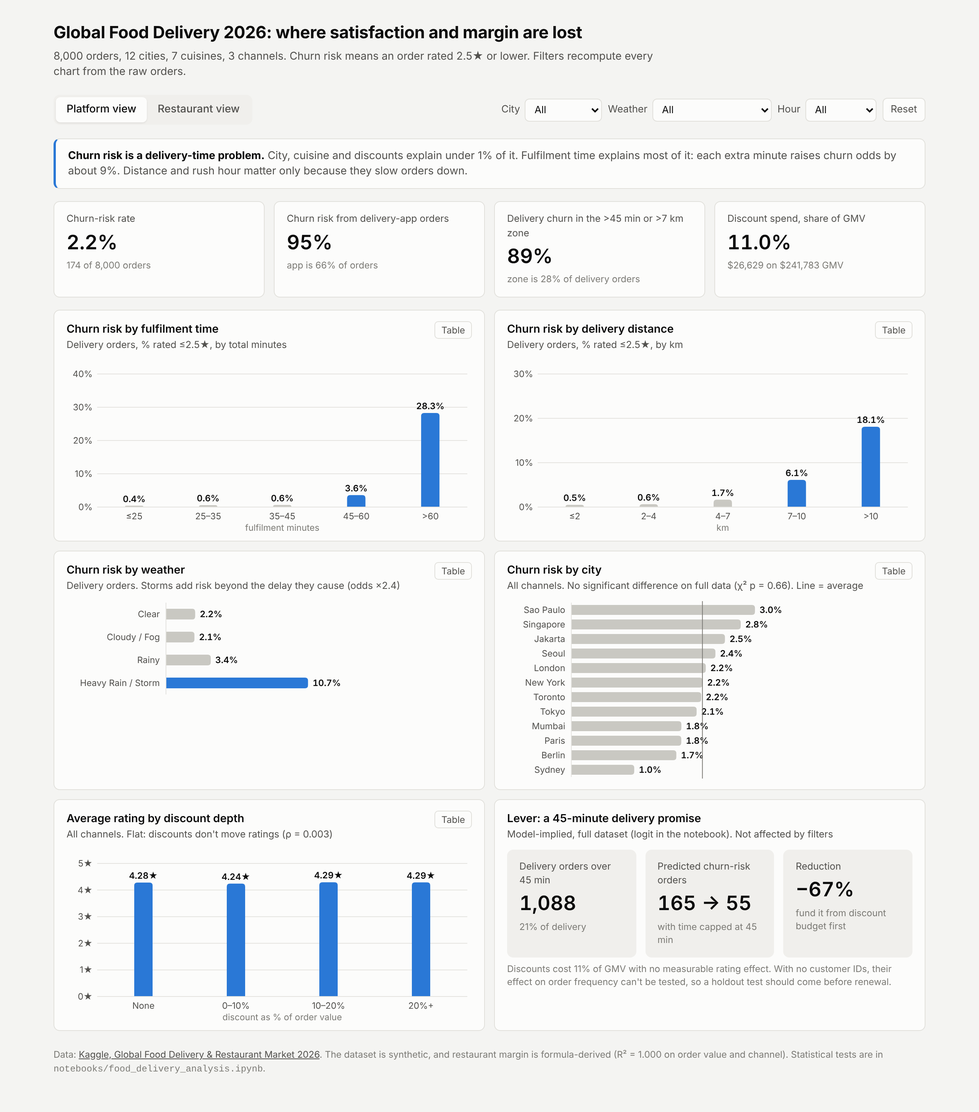
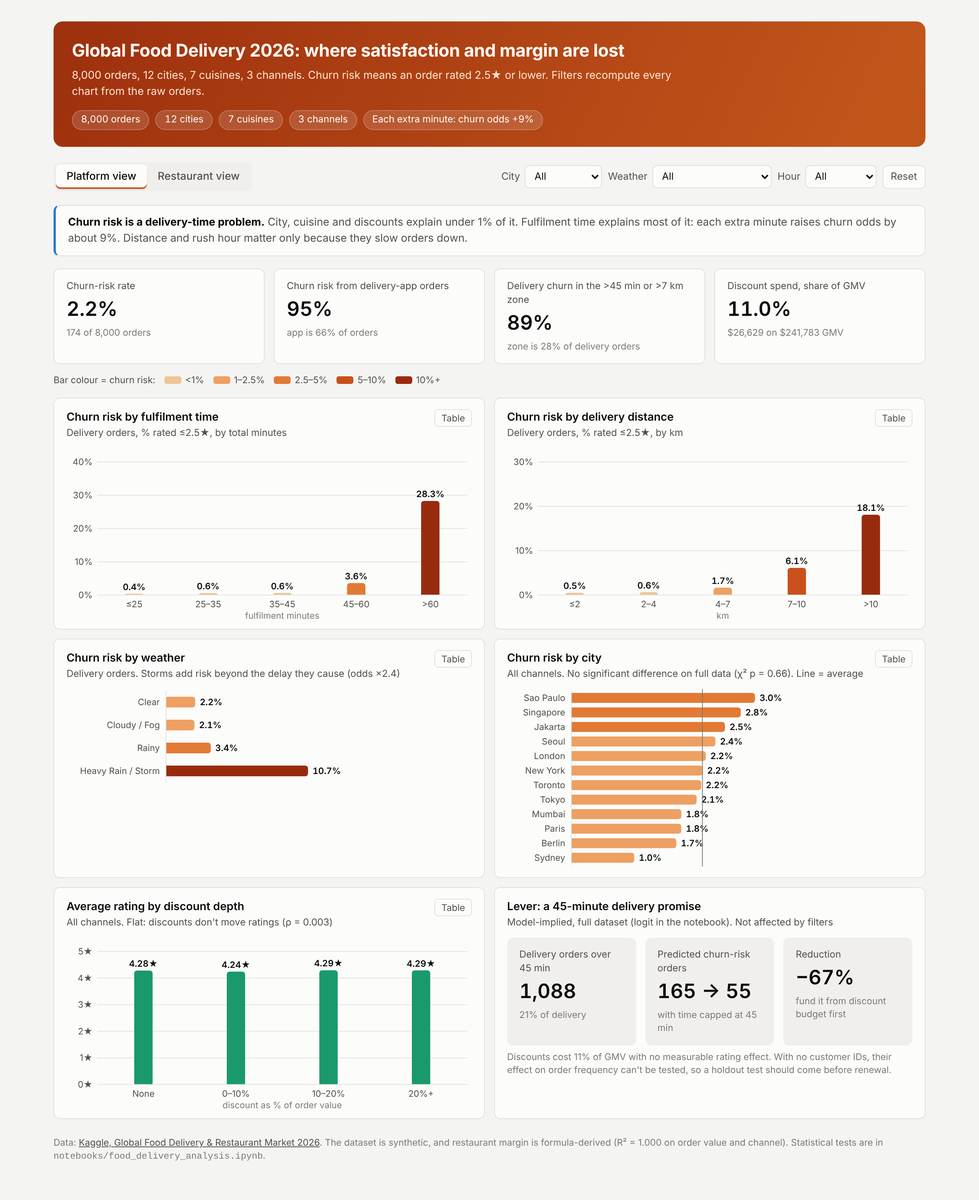
Dashboard: animated bars and counters, risk colour scale, hover focus
Bars grow in on load and morph between filter states, KPI figures count
to their values, and churn bars use one warm sequential scale with fixed
thresholds so a colour means the same risk level on every chart.
Respects prefers-reduced-motion.

diff --git a/dashboards/index.html b/dashboards/index.html
@@ -11,25 +11,64 @@
   --text-primary:#0b0b0b; --text-secondary:#52514e; --text-muted:#7c7b76;
   --series-1:#2a78d6; --series-2:#eb6834; --series-3:#1baf7a;
   --deemph:#c9c8c2; --accent-soft:#cde2fb; --critical:#c8322f;
+  --seq-1:#efc497; --seq-2:#eda061; --seq-3:#e27a35; --seq-4:#c9501c; --seq-5:#982b0d;
+  --good:#1a9a6c; --hero-a:#9c2f0d; --hero-b:#c2551a; --hero-c:#b8410f; --hero-ink:#fff8f2; --hero-sub:#ffe3cf;
+  --lift:0 6px 18px rgba(80,40,10,.12);
 }
 @media (prefers-color-scheme:dark){
-  :root{
+  :root:not([data-theme="light"]){
     color-scheme:dark;
     --bg:#111110; --surface-1:#1a1a19; --surface-2:#242422; --grid:#2e2e2c; --border:#33332f;
     --text-primary:#f0efec; --text-secondary:#c3c2b7; --text-muted:#8f8e86;
     --series-1:#3987e5; --series-2:#d95926; --series-3:#199e70;
     --deemph:#4a4a46; --accent-soft:#1c3a5e; --critical:#e66767;
+    --seq-1:#66391f; --seq-2:#7a3a17; --seq-3:#b5501d; --seq-4:#e6702f; --seq-5:#ffa262;
+    --good:#2bb582; --hero-a:#4a1a08; --hero-b:#6e2a0c; --hero-c:#5a200a; --hero-ink:#fff1e6; --hero-sub:#f3c9ab;
+    --lift:0 6px 18px rgba(0,0,0,.45);
   }
+}
+:root[data-theme="dark"]{
+  color-scheme:dark;
+  --bg:#111110; --surface-1:#1a1a19; --surface-2:#242422; --grid:#2e2e2c; --border:#33332f;
+  --text-primary:#f0efec; --text-secondary:#c3c2b7; --text-muted:#8f8e86;
+  --series-1:#3987e5; --series-2:#d95926; --series-3:#199e70;
+  --deemph:#4a4a46; --accent-soft:#1c3a5e; --critical:#e66767;
+  --seq-1:#66391f; --seq-2:#7a3a17; --seq-3:#b5501d; --seq-4:#e6702f; --seq-5:#ffa262;
+  --good:#2bb582; --hero-a:#4a1a08; --hero-b:#6e2a0c; --hero-c:#5a200a; --hero-ink:#fff1e6; --hero-sub:#f3c9ab;
+  --lift:0 6px 18px rgba(0,0,0,.45);
 }
 *{box-sizing:border-box}
 body{margin:0;background:var(--bg);color:var(--text-primary);font:14px/1.45 system-ui,-apple-system,"Segoe UI",Roboto,sans-serif}
 .wrap{max-width:1180px;margin:0 auto;padding:28px 20px 48px}
-header h1{font-size:22px;margin:0 0 4px;font-weight:650;letter-spacing:-.01em}
-header p{margin:0;color:var(--text-secondary);max-width:820px}
+header{background:linear-gradient(115deg,var(--hero-a),var(--hero-b),var(--hero-c),var(--hero-a));background-size:300% 100%;animation:drift 22s ease-in-out infinite alternate;color:var(--hero-ink);border-radius:12px;padding:22px 24px}
+header h1{font-size:23px;margin:0 0 6px;font-weight:680;letter-spacing:-.01em;text-wrap:balance}
+header p{margin:0;color:var(--hero-sub);max-width:820px}
+header .chips{display:flex;flex-wrap:wrap;gap:8px;margin-top:14px}
+header .chips span{background:rgba(255,255,255,.14);border:1px solid rgba(255,255,255,.22);border-radius:999px;padding:3px 11px;font-size:12.5px;font-variant-numeric:tabular-nums}
+@keyframes drift{from{background-position:0% 50%}to{background-position:100% 50%}}
+@keyframes growY{from{transform:scaleY(var(--s0,0))}to{transform:none}}
+@keyframes growX{from{transform:scaleX(var(--s0,0))}to{transform:none}}
+@keyframes fadeUp{from{opacity:0;transform:translateY(6px)}to{opacity:1;transform:none}}
+@keyframes fadeIn{from{opacity:0}to{opacity:1}}
+section:not([hidden]){animation:fadeUp .4s ease both}
+.chart path.bar{transform-box:fill-box;transform-origin:50% 100%;animation:growY .75s cubic-bezier(.2,.8,.2,1) both;animation-delay:var(--d,0ms);transition:opacity .18s}
+.chart path.bar.h{transform-origin:0 50%;animation-name:growX}
+.chart text.val{animation:fadeIn .45s ease both;animation-delay:var(--dl,300ms)}
+.chart svg.dim .bar:not(.hot){opacity:.35}
+.chart svg .bar.sel{stroke:var(--text-primary);stroke-width:1.5}
+.scale{display:flex;flex-wrap:wrap;align-items:center;gap:6px 12px;font-size:12px;color:var(--text-secondary);margin:-4px 0 14px}
+.scale i{display:inline-block;width:22px;height:10px;border-radius:3px;margin-right:5px;vertical-align:-1px}
+.tile{transition:transform .18s ease,box-shadow .18s ease}
+.kpis .tile:hover,.lever .tile:hover{transform:translateY(-2px);box-shadow:var(--lift)}
+.tile .l .sw{display:inline-block;width:9px;height:9px;border-radius:50%;margin-right:6px}
+input[type=range]{accent-color:var(--seq-4)}
+@media (prefers-reduced-motion:reduce){*,*::before,*::after{animation:none!important;transition:none!important}}
 .bar{display:flex;flex-wrap:wrap;gap:10px;align-items:center;margin:20px 0 18px}
 .tabs{display:inline-flex;background:var(--surface-2);border-radius:8px;padding:3px}
 .tabs button{border:0;background:transparent;color:var(--text-secondary);font:inherit;font-weight:550;padding:6px 14px;border-radius:6px;cursor:pointer}
-.tabs button[aria-selected="true"]{background:var(--surface-1);color:var(--text-primary);box-shadow:0 1px 2px rgba(0,0,0,.08)}
+.tabs button{transition:background .2s,color .2s}
+.tabs button[aria-selected="true"]{background:var(--surface-1);color:var(--text-primary);box-shadow:0 1px 2px rgba(0,0,0,.08),inset 0 -2px 0 var(--seq-4)}
+.tabs button:focus-visible,select:focus-visible,.reset:focus-visible,.tbtn:focus-visible{outline:2px solid var(--seq-4);outline-offset:2px}
 .filters{display:flex;gap:8px;flex-wrap:wrap;margin-left:auto}
 .filters label{display:flex;gap:6px;align-items:center;color:var(--text-secondary);font-size:13px}
 select{font:inherit;font-size:13px;padding:5px 8px;border-radius:6px;border:1px solid var(--border);background:var(--surface-1);color:var(--text-primary)}
@@ -64,7 +103,7 @@ table.t th{color:var(--text-secondary);font-weight:560}
 .note{font-size:12px;color:var(--text-muted);margin:6px 0 2px}
 .lever{display:grid;grid-template-columns:repeat(3,1fr);gap:12px;margin-top:10px}
 .lever .tile{background:var(--surface-2);border:0}
-input[type=range]{width:100%;accent-color:var(--series-1)}
+input[type=range]{width:100%}
 #tip{position:fixed;pointer-events:none;background:var(--surface-1);color:var(--text-primary);border:1px solid var(--border);box-shadow:0 4px 14px rgba(0,0,0,.14);border-radius:6px;padding:7px 10px;font-size:12.5px;line-height:1.4;opacity:0;transition:opacity .08s;z-index:10;max-width:260px}
 #tip b{font-weight:620}
 footer{margin-top:22px;color:var(--text-muted);font-size:12px}
@@ -78,6 +117,7 @@ footer a{color:var(--text-secondary)}
 <header>
   <h1>Global Food Delivery 2026: where satisfaction and margin are lost</h1>
   <p>8,000 orders, 12 cities, 7 cuisines, 3 channels. Churn risk means an order rated 2.5★ or lower. Filters recompute every chart from the raw orders.</p>
+  <div class="chips"><span>8,000 orders</span><span>12 cities</span><span>7 cuisines</span><span>3 channels</span><span>Each extra minute: churn odds +9%</span></div>
 </header>
 
 <div class="bar">
@@ -101,6 +141,7 @@ footer a{color:var(--text-secondary)}
     <div class="tile"><div class="l">Delivery churn in the &gt;45 min or &gt;7 km zone</div><div class="v" id="k3"></div><div class="s" id="k3s"></div></div>
     <div class="tile"><div class="l">Discount spend, share of GMV</div><div class="v" id="k4"></div><div class="s" id="k4s"></div></div>
   </div>
+  <div class="scale" aria-label="Colour scale for churn risk"><span>Bar colour = churn risk:</span><span><i style="background:var(--seq-1)"></i>&lt;1%</span><span><i style="background:var(--seq-2)"></i>1–2.5%</span><span><i style="background:var(--seq-3)"></i>2.5–5%</span><span><i style="background:var(--seq-4)"></i>5–10%</span><span><i style="background:var(--seq-5)"></i>10%+</span></div>
   <div class="grid">
     <div class="card" data-chart="cTime"><div class="hd"><div><h3>Churn risk by fulfilment time</h3><p class="sub">Delivery orders, % rated ≤2.5★, by total minutes</p></div><button class="tbtn">Table</button></div><div class="chart"></div></div>
     <div class="card" data-chart="cDist"><div class="hd"><div><h3>Churn risk by delivery distance</h3><p class="sub">Delivery orders, % rated ≤2.5★, by km</p></div><button class="tbtn">Table</button></div><div class="chart"></div></div>
@@ -111,9 +152,9 @@ footer a{color:var(--text-secondary)}
       <h3>Lever: a 45-minute delivery promise</h3>
       <p class="sub">Model-implied, full dataset (logit in the notebook). Not affected by filters</p>
       <div class="lever">
-        <div class="tile"><div class="l">Delivery orders over 45 min</div><div class="v">1,088</div><div class="s">21% of delivery</div></div>
-        <div class="tile"><div class="l">Predicted churn-risk orders</div><div class="v">165 → 55</div><div class="s">with time capped at 45 min</div></div>
-        <div class="tile"><div class="l">Reduction</div><div class="v">−67%</div><div class="s">fund it from discount budget first</div></div>
+        <div class="tile"><div class="l">Delivery orders over 45 min</div><div class="v" data-count="1088" data-fmt="n">1,088</div><div class="s">21% of delivery</div></div>
+        <div class="tile"><div class="l">Predicted churn-risk orders</div><div class="v">165 → <span data-count="55" data-from="165" data-fmt="n">55</span></div><div class="s">with time capped at 45 min</div></div>
+        <div class="tile"><div class="l">Reduction</div><div class="v">−<span data-count="67" data-fmt="n">67</span>%</div><div class="s">fund it from discount budget first</div></div>
       </div>
       <p class="note">Discounts cost 11% of GMV with no measurable rating effect. With no customer IDs, their effect on order frequency can't be tested, so a holdout test should come before renewal.</p>
     </div>
@@ -123,15 +164,15 @@ footer a{color:var(--text-secondary)}
 <section id="restaurant" hidden>
   <div class="headline"><b>The delivery app costs restaurants about 17 points of margin.</b> For the same basket, restaurants keep about 45% on dine-in, 35% on pickup and 28% on the app. Moving app orders to pickup recovers about 7 points, enough to fund a pickup incentive.</div>
   <div class="kpis">
-    <div class="tile"><div class="l">Margin kept, dine-in</div><div class="v" id="r1"></div><div class="s" id="r1s"></div></div>
-    <div class="tile"><div class="l">Margin kept, pickup</div><div class="v" id="r2"></div><div class="s" id="r2s"></div></div>
-    <div class="tile"><div class="l">Margin kept, delivery app</div><div class="v" id="r3"></div><div class="s" id="r3s"></div></div>
+    <div class="tile"><div class="l"><span class="sw" style="background:var(--series-1)"></span>Margin kept, dine-in</div><div class="v" id="r1"></div><div class="s" id="r1s"></div></div>
+    <div class="tile"><div class="l"><span class="sw" style="background:var(--series-2)"></span>Margin kept, pickup</div><div class="v" id="r2"></div><div class="s" id="r2s"></div></div>
+    <div class="tile"><div class="l"><span class="sw" style="background:var(--series-3)"></span>Margin kept, delivery app</div><div class="v" id="r3"></div><div class="s" id="r3s"></div></div>
     <div class="tile"><div class="l">Loss-making orders</div><div class="v" id="r4"></div><div class="s" id="r4s"></div></div>
   </div>
   <div class="grid">
     <div class="card full" data-chart="cTier"><div class="hd"><div><h3>Restaurant margin by price tier and channel</h3><p class="sub">Average estimated net margin as % of order value</p></div><button class="tbtn">Table</button></div><div class="legend" id="tierLegend"></div><div class="chart"></div></div>
     <div class="card" data-chart="cFeeChurn"><div class="hd"><div><h3>Churn risk by delivery fee vs basket</h3><p class="sub">Delivery orders, fee as % of order value</p></div><button class="tbtn">Table</button></div><div class="chart"></div></div>
-    <div class="card" data-chart="cFeeLoss"><div class="hd"><div><h3>Loss-making orders by delivery fee vs basket</h3><p class="sub">Delivery orders. Every loss-maker is under $4.05, so a $5 minimum clears them</p></div><button class="tbtn">Table</button></div><div class="chart"></div></div>
+    <div class="card" data-chart="cFeeLoss"><div class="hd"><div><h3>Loss-making orders by delivery fee vs basket</h3><p class="sub">Delivery orders. Every loss-maker is under $4.05, so a $5 minimum clears them. Colour uses the same scale as churn risk</p></div><button class="tbtn">Table</button></div><div class="chart"></div></div>
     <div class="card full">
       <h3>Calculator: shift app orders to pickup</h3>
       <p class="sub">Uses the filtered orders: the pickup-vs-app margin gap applied to the average app basket</p>
@@ -160,6 +201,18 @@ const css = v => getComputedStyle(document.documentElement).getPropertyValue(v).
 const pct = (v, d = 1) => (v * 100).toFixed(d) + '%';
 const usd = v => '$' + Math.round(v).toLocaleString('en-US');
 const fmtN = v => v.toLocaleString('en-US');
+const RM = matchMedia('(prefers-reduced-motion: reduce)');
+function tween(node, to, fmt, from) {
+  if (!Number.isFinite(to)) { node.textContent = '–'; node._v = undefined; return; }
+  const a = from != null ? from : (node._v != null ? node._v : 0); node._v = to;
+  if (RM.matches || a === to) { node.textContent = fmt(to); return; }
+  const t0 = performance.now(), dur = 650; cancelAnimationFrame(node._raf);
+  const step = t => { const k = Math.min(1, (t - t0) / dur), e = 1 - Math.pow(1 - k, 3); node.textContent = fmt(a + (to - a) * e); if (k < 1) node._raf = requestAnimationFrame(step); };
+  node._raf = requestAnimationFrame(step);
+}
+const RISK = [0.01, 0.025, 0.05, 0.10];
+const risk = v => { let k = 0; while (k < RISK.length && v >= RISK[k]) k++; return css('--seq-' + (k + 1)); };
+const prevH = {};
 
 // ---------- filters ----------
 const F = { city: '', weather: '', peak: '' };
@@ -190,8 +243,13 @@ function groupStats(idx, key, nCats, metric) {
 
 // ---------- tooltip ----------
 const tip = document.getElementById('tip');
+document.addEventListener('mouseleave', () => { tip.style.opacity = 0; document.querySelectorAll('.chart svg.dim').forEach(x => { x.classList.remove('dim'); x.dataset.hg = ''; }); });
 document.addEventListener('mousemove', e => {
   const t = e.target.closest('[data-tip]');
+  const svg = t && t.closest('svg'), g = t && t.getAttribute('data-g');
+  document.querySelectorAll('.chart svg.dim').forEach(x => { if (x !== svg || g == null) { x.classList.remove('dim'); x.querySelectorAll('.hot').forEach(h => h.classList.remove('hot')); } });
+  if (svg && g != null && svg.dataset.hg !== g) { svg.querySelectorAll('.hot').forEach(h => h.classList.remove('hot')); svg.querySelectorAll(`[data-g="${g}"]`).forEach(h => h.classList.add('hot')); svg.classList.add('dim'); }
+  if (svg) svg.dataset.hg = g == null ? '' : g;
   if (!t) { tip.style.opacity = 0; return; }
   tip.innerHTML = t.dataset.tip; tip.style.opacity = 1;
   const r = tip.getBoundingClientRect();
@@ -232,9 +290,11 @@ function columns(id, cats, series, o) {
       const d = s.vals[ci], h = Math.max(0, ih * d.v / max), x = x0 + si * (bw + gap), y = m.t + ih - h;
       const color = typeof s.color === 'function' ? s.color(ci) : s.color;
       const tipTxt = `<b>${c}</b>${ns > 1 ? ' · ' + s.name : ''}<br>${o.label}: ${o.fmt(d.v)}<br>${fmtN(d.n)} orders${d.n < 30 ? ' (small sample)' : ''}`;
-      if (h > 0) svg.append(el('path', { d: colPath(x, y, bw, h), fill: color, 'data-tip': tipTxt }));
-      svg.append(el('rect', { x: x - 3, y: m.t, width: bw + 6, height: ih, fill: 'transparent', 'data-tip': tipTxt }));
-      if ((o.labelAll && (!o.labelSeries || o.labelSeries.includes(si))) || (o.labelIdx && o.labelIdx.includes(ci))) svg.append(el('text', { x: x + bw / 2, y: y - 5, 'text-anchor': 'middle', class: 'val' }, d.n ? o.fmt(d.v) : '–'));
+      const key = id + ':' + ci + ':' + si, first = !(key in prevH), p = prevH[key] || 0; prevH[key] = h;
+      const s0 = h > 0 ? Math.min(4, p / h) : 0, delay = first ? 60 * ci + 30 * si : 0;
+      if (h > 0) svg.append(el('path', { d: colPath(x, y, bw, h), fill: color, class: 'bar', 'data-g': ci + '-' + si, 'data-tip': tipTxt, style: `--s0:${s0};--d:${delay}ms` }));
+      svg.append(el('rect', { x: x - 3, y: m.t, width: bw + 6, height: ih, fill: 'transparent', 'data-g': ci + '-' + si, 'data-tip': tipTxt }));
+      if ((o.labelAll && (!o.labelSeries || o.labelSeries.includes(si))) || (o.labelIdx && o.labelIdx.includes(ci))) svg.append(el('text', { x: x + bw / 2, y: y - 5, 'text-anchor': 'middle', class: 'val', style: `--dl:${first ? delay + 450 : 250}ms` }, d.n ? o.fmt(d.v) : '–'));
     });
     svg.append(el('text', { x: m.l + band * ci + band / 2, y: H - m.b + 16, 'text-anchor': 'middle' }, c));
   });
@@ -254,10 +314,12 @@ function hbars(id, items, o) {
   items.forEach((it, k) => {
     const y = m.t + k * row, bh = Math.min(14, row - 6), w = Math.max(0, iw * it.v / max), by = y + (row - bh) / 2;
     const tipTxt = `<b>${it.name}</b><br>${o.label}: ${o.fmt(it.v)}<br>${fmtN(it.n)} orders${it.n < 30 ? ' (small sample)' : ''}`;
-    svg.append(el('rect', { x: 0, y, width: W, height: row, fill: 'transparent', 'data-tip': tipTxt }));
-    svg.append(el('text', { x: m.l - 8, y: y + row / 2 + 4, 'text-anchor': 'end', 'data-tip': tipTxt }, it.name));
-    if (w > 0) svg.append(el('path', { d: barPath(m.l, by, w, bh), fill: it.color, 'data-tip': tipTxt }));
-    svg.append(el('text', { x: m.l + w + 6, y: y + row / 2 + 4, class: 'val', 'data-tip': tipTxt }, it.n ? o.fmt(it.v) : '–'));
+    const key = id + ':' + it.name, first = !(key in prevH), p = prevH[key] || 0; prevH[key] = w;
+    const s0 = w > 0 ? Math.min(4, p / w) : 0, delay = first ? 45 * k : 0;
+    svg.append(el('rect', { x: 0, y, width: W, height: row, fill: 'transparent', 'data-g': k, 'data-tip': tipTxt }));
+    svg.append(el('text', { x: m.l - 8, y: y + row / 2 + 4, 'text-anchor': 'end', 'data-tip': tipTxt, style: it.sel ? 'fill:var(--text-primary);font-weight:620' : '' }, it.name));
+    if (w > 0) svg.append(el('path', { d: barPath(m.l, by, w, bh), fill: it.color, class: 'bar h' + (it.sel ? ' sel' : ''), 'data-g': k, 'data-tip': tipTxt, style: `--s0:${s0};--d:${delay}ms` }));
+    svg.append(el('text', { x: m.l + w + 6, y: y + row / 2 + 4, class: 'val', 'data-tip': tipTxt, style: `--dl:${first ? delay + 450 : 250}ms` }, it.n ? o.fmt(it.v) : '–'));
   });
   svg.append(el('line', { x1: m.l, x2: m.l, y1: m.t, y2: H - m.b, class: 'ax' }));
   if (o.ref != null) { const x = m.l + iw * o.ref / max; svg.append(el('line', { x1: x, x2: x, y1: m.t - 2, y2: H - m.b + 2, class: 'ref' })); }
@@ -271,40 +333,40 @@ const DISC = { e: [-0.01, 0, 10, 20, 100], c: ['None', '0–10%', '10–20%', '2
 const FEE = { e: [-0.01, .1, .25, .5, 1, 1e9], c: ['<10%', '10–25%', '25–50%', '50–100%', '>100%'] };
 const WORDER = ['Clear', 'Cloudy / Fog', 'Rainy', 'Heavy Rain / Storm'];
 const churn = i => C.churn[i], rating = i => C.rating[i], loss = i => C.margin[i] < 0 ? 1 : 0;
-const emph = hot => ci => hot.includes(ci) ? css('--series-1') : css('--deemph');
+const byRisk = vals => ci => risk(vals[ci].v);
 
 function renderPlatform() {
   const all = rows(), app = all.filter(isApp);
   const tot = all.reduce((s, i) => s + C.churn[i], 0), appCh = app.reduce((s, i) => s + C.churn[i], 0);
   const zone = app.filter(i => C.time[i] > 45 || C.dist[i] > 7), zoneCh = zone.reduce((s, i) => s + C.churn[i], 0);
   const disc = all.reduce((s, i) => s + C.disc[i], 0), gmv = all.reduce((s, i) => s + C.ov[i], 0);
-  k1.textContent = all.length ? pct(tot / all.length) : '–'; k1s.textContent = `${fmtN(tot)} of ${fmtN(all.length)} orders`;
-  k2.textContent = tot ? pct(appCh / tot, 0) : '–'; k2s.textContent = `app is ${all.length ? pct(app.length / all.length, 0) : '–'} of orders`;
-  k3.textContent = appCh ? pct(zoneCh / appCh, 0) : '–'; k3s.textContent = `zone is ${app.length ? pct(zone.length / app.length, 0) : '–'} of delivery orders`;
-  k4.textContent = gmv ? pct(disc / gmv) : '–'; k4s.textContent = `${usd(disc)} on ${usd(gmv)} GMV`;
+  tween(k1, all.length ? tot / all.length : NaN, v => pct(v)); k1s.textContent = `${fmtN(tot)} of ${fmtN(all.length)} orders`;
+  tween(k2, tot ? appCh / tot : NaN, v => pct(v, 0)); k2s.textContent = `app is ${all.length ? pct(app.length / all.length, 0) : '–'} of orders`;
+  tween(k3, appCh ? zoneCh / appCh : NaN, v => pct(v, 0)); k3s.textContent = `zone is ${app.length ? pct(zone.length / app.length, 0) : '–'} of delivery orders`;
+  tween(k4, gmv ? disc / gmv : NaN, v => pct(v)); k4s.textContent = `${usd(disc)} on ${usd(gmv)} GMV`;
 
   const tb = bandStats(app, TIME.e, 'time', churn);
   setTable('cTime', ['Minutes', 'Orders', 'Churn risk'], TIME.c.map((c, k) => [c, fmtN(tb[k].n), pct(tb[k].v)]));
-  columns('cTime', TIME.c, [{ name: 'Churn', color: emph([3, 4]), vals: tb }], { label: 'Churn risk', fmt: v => pct(v), tick: v => pct(v, 0), labelAll: true, xTitle: 'fulfilment minutes', aria: 'Churn risk by fulfilment time' });
+  columns('cTime', TIME.c, [{ name: 'Churn', color: byRisk(tb), vals: tb }], { label: 'Churn risk', fmt: v => pct(v), tick: v => pct(v, 0), labelAll: true, xTitle: 'fulfilment minutes', aria: 'Churn risk by fulfilment time' });
 
   const db = bandStats(app, DIST.e, 'dist', churn);
   setTable('cDist', ['Km', 'Orders', 'Churn risk'], DIST.c.map((c, k) => [c, fmtN(db[k].n), pct(db[k].v)]));
-  columns('cDist', DIST.c, [{ name: 'Churn', color: emph([3, 4]), vals: db }], { label: 'Churn risk', fmt: v => pct(v), tick: v => pct(v, 0), labelAll: true, xTitle: 'km', aria: 'Churn risk by distance' });
+  columns('cDist', DIST.c, [{ name: 'Churn', color: byRisk(db), vals: db }], { label: 'Churn risk', fmt: v => pct(v), tick: v => pct(v, 0), labelAll: true, xTitle: 'km', aria: 'Churn risk by distance' });
 
   const appNoW = rows('weather', isApp), wg = groupStats(appNoW, 'weather', K.weather_condition.length, churn);
-  const witems = WORDER.map(w => { const k = K.weather_condition.indexOf(w); return { name: w, n: wg[k].n, v: wg[k].v, color: w === 'Heavy Rain / Storm' ? css('--series-1') : css('--deemph') }; });
+  const witems = WORDER.map(w => { const k = K.weather_condition.indexOf(w); return { name: w, n: wg[k].n, v: wg[k].v, color: risk(wg[k].v) }; });
   setTable('cWeather', ['Weather', 'Orders', 'Churn risk'], witems.map(x => [x.name, fmtN(x.n), pct(x.v)]));
   hbars('cWeather', witems, { label: 'Churn risk', fmt: v => pct(v), left: 130, row: 30, aria: 'Churn risk by weather' });
 
   const noCity = rows('city'), cg = groupStats(noCity, 'city', K.metro_city.length, churn);
   const avg = noCity.length ? noCity.reduce((s, i) => s + C.churn[i], 0) / noCity.length : 0;
-  const citems = K.metro_city.map((c, k) => ({ name: c, n: cg[k].n, v: cg[k].v, color: F.city !== '' && +F.city === k ? css('--series-1') : css('--deemph') })).sort((a, b) => b.v - a.v);
+  const citems = K.metro_city.map((c, k) => ({ name: c, n: cg[k].n, v: cg[k].v, color: risk(cg[k].v), sel: F.city !== '' && +F.city === k })).sort((a, b) => b.v - a.v);
   setTable('cCity', ['City', 'Orders', 'Churn risk'], citems.map(x => [x.name, fmtN(x.n), pct(x.v)]));
   hbars('cCity', citems, { label: 'Churn risk', fmt: v => pct(v), ref: avg, row: 19, left: 84, aria: 'Churn risk by city' });
 
   const dd = bandStats(all, DISC.e, 'discPct', rating);
   setTable('cDisc', ['Discount', 'Orders', 'Avg rating'], DISC.c.map((c, k) => [c, fmtN(dd[k].n), dd[k].v.toFixed(2)]));
-  columns('cDisc', DISC.c, [{ name: 'Rating', color: css('--series-1'), vals: dd }], { max: 5, step: 1, label: 'Avg rating', fmt: v => v.toFixed(2) + '★', tick: v => v.toFixed(0) + '★', labelAll: true, xTitle: 'discount as % of order value', aria: 'Rating by discount depth' });
+  columns('cDisc', DISC.c, [{ name: 'Rating', color: css('--good'), vals: dd }], { max: 5, step: 1, label: 'Avg rating', fmt: v => v.toFixed(2) + '★', tick: v => v.toFixed(0) + '★', labelAll: true, xTitle: 'discount as % of order value', aria: 'Rating by discount depth' });
 }
 
 // ---------- restaurant view ----------
@@ -313,9 +375,9 @@ function renderRestaurant() {
   const all = rows(), app = all.filter(isApp);
   const ch = groupStats(all, 'channel', K.order_channel.length, mPct);
   const ab = groupStats(all, 'channel', K.order_channel.length, i => C.ov[i]);
-  [[r1, r1s, DINE], [r2, r2s, PICK], [r3, r3s, APP]].forEach(([v, s, k]) => { v.textContent = ch[k].n ? pct(ch[k].v, 1) : '–'; s.textContent = ch[k].n ? `${fmtN(ch[k].n)} orders, avg basket $${ab[k].v.toFixed(2)}` : 'no orders'; });
+  [[r1, r1s, DINE], [r2, r2s, PICK], [r3, r3s, APP]].forEach(([v, s, k]) => { tween(v, ch[k].n ? ch[k].v : NaN, x => pct(x, 1)); s.textContent = ch[k].n ? `${fmtN(ch[k].n)} orders, avg basket $${ab[k].v.toFixed(2)}` : 'no orders'; });
   const nl = all.filter(i => C.margin[i] < 0).length;
-  r4.textContent = fmtN(nl); r4s.textContent = all.length ? `${pct(nl / all.length)} of orders, all delivery` : '';
+  tween(r4, nl, v => fmtN(Math.round(v))); r4s.textContent = all.length ? `${pct(nl / all.length)} of orders, all delivery` : '';
 
   const chans = [[DINE, 'Dine-in', '--series-1'], [PICK, 'Pickup', '--series-2'], [APP, 'Delivery app', '--series-3']];
   tierLegend.innerHTML = chans.map(([, n, c]) => `<span><i style="background:var(${c})"></i>${n}</span>`).join('');
@@ -326,9 +388,9 @@ function renderRestaurant() {
 
   const fc = bandStats(app, FEE.e, 'feeRatio', churn), fl = bandStats(app, FEE.e, 'feeRatio', loss);
   setTable('cFeeChurn', ['Fee / basket', 'Orders', 'Churn risk'], FEE.c.map((c, k) => [c, fmtN(fc[k].n), pct(fc[k].v)]));
-  columns('cFeeChurn', FEE.c, [{ name: 'Churn', color: emph([2, 3, 4]), vals: fc }], { label: 'Churn risk', fmt: v => pct(v), tick: v => pct(v, 0), labelAll: true, xTitle: 'delivery fee ÷ order value', aria: 'Churn by fee ratio' });
+  columns('cFeeChurn', FEE.c, [{ name: 'Churn', color: byRisk(fc), vals: fc }], { label: 'Churn risk', fmt: v => pct(v), tick: v => pct(v, 0), labelAll: true, xTitle: 'delivery fee ÷ order value', aria: 'Churn by fee ratio' });
   setTable('cFeeLoss', ['Fee / basket', 'Orders', 'Loss-making'], FEE.c.map((c, k) => [c, fmtN(fl[k].n), pct(fl[k].v)]));
-  columns('cFeeLoss', FEE.c, [{ name: 'Loss', color: emph([4]), vals: fl }], { label: 'Loss-making orders', fmt: v => pct(v), tick: v => pct(v, 0), labelAll: true, xTitle: 'delivery fee ÷ order value', aria: 'Loss-making share by fee ratio' });
+  columns('cFeeLoss', FEE.c, [{ name: 'Loss', color: byRisk(fl), vals: fl }], { label: 'Loss-making orders', fmt: v => pct(v), tick: v => pct(v, 0), labelAll: true, xTitle: 'delivery fee ÷ order value', aria: 'Loss-making share by fee ratio' });
   renderCalc();
 }
 function renderCalc() {
@@ -339,9 +401,9 @@ function renderCalc() {
   const gap = ch[PICK].n && ch[APP].n ? ch[PICK].v - ch[APP].v : 0;
   const moved = Math.round(share * app.length), gain = moved * aov * gap;
   const totM = all.reduce((s, i) => s + C.margin[i], 0);
-  c1.textContent = usd(gain); c1s.textContent = `${fmtN(moved)} orders × $${aov.toFixed(2)} × ${pct(gap)} gap`;
-  c2.textContent = totM ? '+' + pct(gain / totM) : '–';
-  c3.textContent = '$' + (aov * gap).toFixed(2);
+  tween(c1, gain, usd); c1s.textContent = `${fmtN(moved)} orders × $${aov.toFixed(2)} × ${pct(gap)} gap`;
+  tween(c2, totM ? gain / totM : NaN, v => '+' + pct(v));
+  tween(c3, aov * gap, v => '$' + v.toFixed(2));
 }
 
 // ---------- wiring ----------
@@ -359,6 +421,7 @@ shift.oninput = renderCalc;
 matchMedia('(prefers-color-scheme: dark)').addEventListener('change', render);
 let rt; addEventListener('resize', () => { clearTimeout(rt); rt = setTimeout(render, 120); });
 render();
+document.querySelectorAll('[data-count]').forEach(n => tween(n, +n.dataset.count, v => fmtN(Math.round(v)), n.dataset.from != null ? +n.dataset.from : 0));
 </script>
 </body>
 </html>
